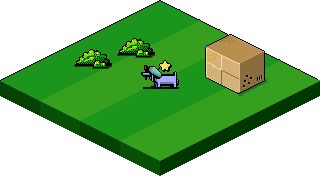
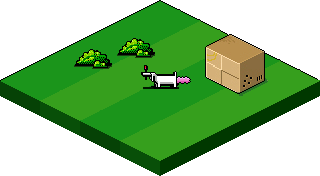
toy functionality added

Changed region(s): [[0.4375, 0.3409, 0.5938, 0.5114]]

diff --git a/snuseprofilen/image_maker.py b/snuseprofilen/image_maker.py
@@ -14,11 +14,12 @@ base_coor_dict =  {'dog':(160-19, 80-9), 'wolf':(160-21, 80-14), 'cat':(160-15, 
 head_coor_dict =  {'dog': (11, 1), 'wolf': (12, 5), 'cat': (8, 6), 'bear': (13, 1)}
 mouth_coor_dict = {'dog': (3, 5), 'wolf': (3, 11), 'cat': (2, 12), 'bear': (2, 10)}
 belly_coor_dict = {'dog':(23, 4), 'wolf':(25, 10), 'cat':(19, 9), 'bear':(27, 2)}
-body_coor_dicts = {'head': head_coor_dict, 'mouth': mouth_coor_dict, 'belly': belly_coor_dict}
+dildo_coor_dict = {'dog':(23+17, 4+11), 'wolf':(25+16-1, 10+16), 'cat':(19+13-1, 9+9), 'bear':(27+21-1, 2+14)}
+body_coor_dicts = {'head': head_coor_dict, 'mouth': mouth_coor_dict, 'belly': belly_coor_dict, 'dildo': dildo_coor_dict}
 number_to_placement = {'1': 'head', '2': 'mouth', '12': 'dildo'}
 
 possible_instruction_types = {'head', 'belly', 'mouth', 'animal', 'color', 'dildo'}
-placements = ['head', 'mouth', 'belly'] # At dildo at a later time
+placements = ['dildo', 'head', 'mouth', 'belly']
 
 standard_colors = {
     'red' : "#FF0000",
@@ -69,8 +70,6 @@ def make_hat_image(dress_string):
             continue
         elif hat_info['u'] == '12':
             placement = 'dildo'
-            messages.append(f'Dildoes will be implemented at a later time. Stay tuned!')
-            continue
         else:
             placement = 'belly'
         
@@ -224,7 +223,19 @@ def hat_placer(animal, hat_info, canvas,frame_no=0):
     place_x, place_y = body_coor_dicts[placement][animal]
     hat_x, hat_y = hat_info['x'], hat_info['y']
 
-    hat = Image.open(f"snuseprofilen/hats/{img_no}.png").convert("RGBA") 
+    hat = Image.open(f"snuseprofilen/hats/{img_no}.png").convert("RGBA")
+    if placement == 'dildo':
+        crop_dildo(hat)
     x, y = base_x + place_x + hat_x, base_y + place_y + hat_y
     canvas.paste(hat, (x, y), hat)
     hat.close()
+
+
+def crop_dildo(dildo):
+    width, height = dildo.size
+    pixels = dildo.load()
+    left_side_width = width // 2
+
+    for x in range(left_side_width):
+        for y in range(height):
+            pixels[x, y] = (0, 0, 0, 0)

diff --git a/bot.py b/bot.py
@@ -57,7 +57,7 @@ def run_discord_bot():
 
     with open(token_path) as json_file:
         tokens = json.load(json_file)
-    TOKEN = tokens['Logenbot'] # Testbot, Logenbot
+    TOKEN = tokens['Testbot'] # Testbot, Logenbot
     intents = discord.Intents.default()
     intents.message_content = True
     client = discord.Client(intents=intents)
